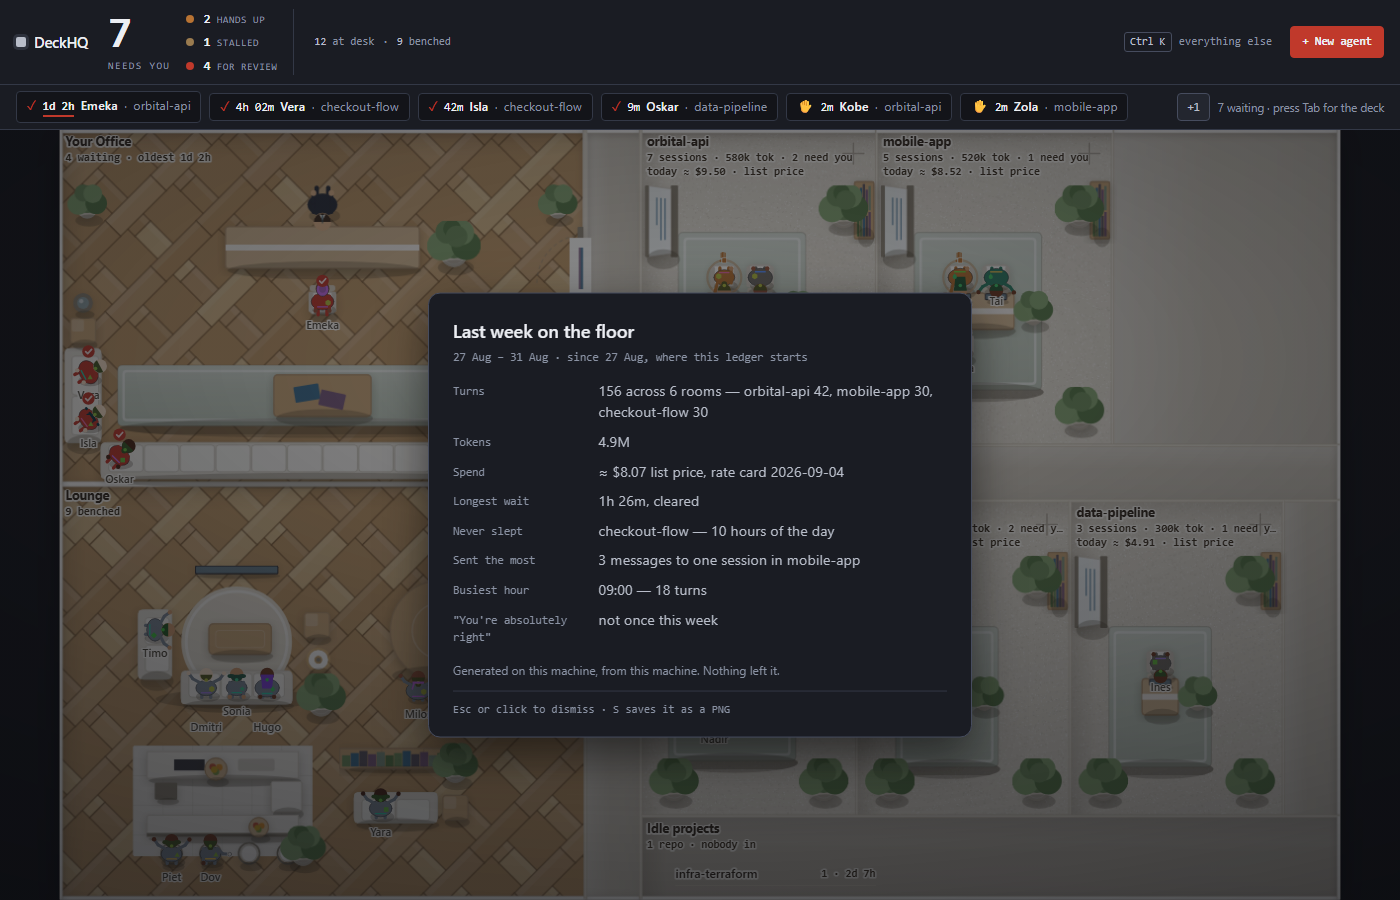
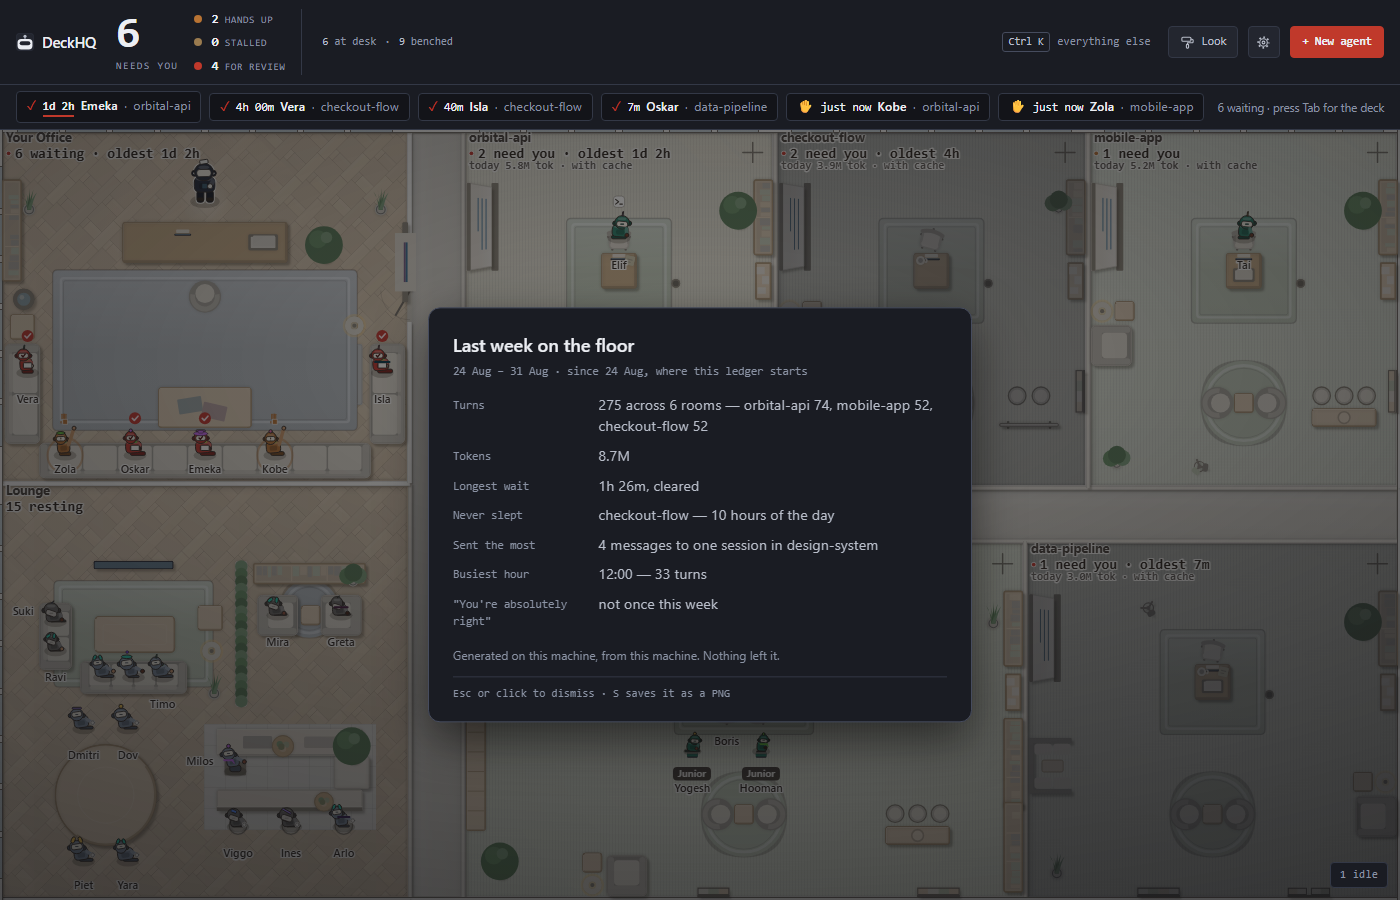
docs(guide): six of its seven pictures are the floor as it is, and the release attaches current ones
The guide showed seven captures from September, each labelled as taken before the figure took its current form. Four now point at captures site/assets.json declares and scripts/site-assets.mjs took on 11 October: media/site/hero.png, panel.png, theme-night-shift.png and theme-blueprint.png. Two are retaken in place by scripts/capture-floor.mjs on the demo floor: wrapped-weekly.png (demo-floor.mjs --ledger-fixture, palette, Wrapped) and pack-picker.png (demo-floor.mjs --pack, L), which is the Look panel now that the theme picker lives there. app-window.png is a photograph of a real Windows desktop window, which no script here can take; it stays, and its caption says what in it is current and what is not.

docs/media/floor.png, panel-review-card.png and hero.gif are attached to every GitHub release by publish.yml and showed the floor of early September. Retaken in place, same names: capture-floor.mjs for the two stills, capture-hero.mjs and gif-encoder.mjs for the animation (90 frames, 10 a second, 782 KB).

diff --git a/docs/GUIDE.md b/docs/GUIDE.md
@@ -30,9 +30,9 @@ in the whole team at a glance, walk over to anyone and read what they are doing,
 the next task, send them to the lounge when there is nothing for them, let them go when the work
 is done.
 
-![The DeckHQ floor: project rooms with agents at desks, a lounge of benched agents, and four sessions waiting in Your Office for review](media/floor.png)
+![The DeckHQ window on its demo floor. The header reads 2 needs you, with one hand up and one for review. Kobe and Ravi wait on a sofa in Your Office; three project rooms stand beside it, one of them with its lights off; five robots rest in the Lounge](media/site/hero.png)
 
-_Capture — September 2026, before the figure took its current form._
+_Capture: the running product on its demo floor, 11 October 2026. The projects are invented._
 
 **Read it in one glance.** The header counts what needs you. Your Office, top left, holds the
 sessions that are waiting on you — finished and waiting on your reply, or **hand up** and blocked
@@ -197,9 +197,9 @@ repository a working-tree diff cannot be attributed to any one of them, and the 
 imply otherwise. A clean repository says _nothing uncommitted_ rather than showing you an empty
 space, because "no changes" is itself review-relevant.
 
-![The review card on the oldest session in the queue: what the agent said rendered as markdown, what changed in the project's working tree at +142 −18 across three files, the 1 Reply, 2 Approve and 3 Bench actions, and the cost estimate as one quiet line](media/panel-review-card.png)
+![The review card on the oldest session in the queue, Emeka in orbital-api, waiting 1d 2h: what the agent said rendered as markdown, what changed in the project's working tree at +142 −18 across three files, the 1 Reply, 2 Approve and 3 Bench actions, and the session's tokens as one quiet line](media/site/panel.png)
 
-_Capture — September 2026, before the figure took its current form._
+_Capture: the running product on its demo floor, 11 October 2026._
 
 The furniture works too. A room's shelf opens that project's folder; its screen runs that
 project's dashboard script. The object is the verb, and it lives in the room the project lives in,
@@ -266,7 +266,9 @@ script. `deckhq app --pin` asks again whenever you want it; `--no-pin` never ask
 
 ![The DeckHQ floor in a Chrome application window on Windows 11: its own title bar reading "(7) DeckHQ" with the DeckHQ mark, no tab strip and no address bar, the queue strip along the top and the office below it](media/app-window.png)
 
-_Capture — September 2026, before the figure took its current form._
+_Capture of a real window, September 2026. The title bar and the missing tab strip are what you get
+today; the floor inside it has been redrawn since. A desktop window is the one picture here no
+script can retake, so it waits for somebody at a Windows desktop._
 
 `deckhq app` reuses the DeckHQ you already have running for this state directory — the one a
 running daemon published in `~/.deckhq/daemon.json`, the one your installed hooks post to, then
@@ -1114,9 +1116,9 @@ back on its own. Monday morning it is Wrapped instead — the week's turns per r
 whether the longest wait fell, the room that never slept, the busiest hour, and how many times an
 agent said _"You're absolutely right"_ — and from 1 December, the year so far.
 
-![Wrapped for the week, over the dimmed floor: turns per room, tokens, spend with its rate card, the longest wait, the room that never slept, the session sent the most, the busiest hour, and the count of one phrase](media/wrapped-weekly.png)
+![Wrapped for the week, over the dimmed floor: 275 turns across 6 rooms, tokens, the longest wait, the room that never slept, the session sent the most, the busiest hour, and the count of one phrase. Show cost is off, so there is no spend row](media/wrapped-weekly.png)
 
-_Capture — September 2026, before the figure took its current form._
+_Capture: the running product on its demo floor with nine days of invented ledger, 11 October 2026._
 
 Every number is a replay of the event ledger on this machine. Nothing is emailed, uploaded or
 counted anywhere else.
@@ -1247,13 +1249,13 @@ floor preferences — and `deckhq layout import my-floor.json` applies it. It ca
 transcript and no acknowledgement, and a malformed file is refused whole with the reason, never
 half-applied. It does name your project folders, so read one before you send it anywhere.
 
-![The floor in the night shift theme: the same office, cooler and dimmer, with the state colours unchanged](media/theme-night-shift.png)
+![The floor in the night shift theme: the same office, cooler and dimmer, with the state colours unchanged](media/site/theme-night-shift.png)
 
-_Capture — September 2026, before the figure took its current form._
+_Capture: the running product on its demo floor, 11 October 2026._
 
-![The floor in the blueprint theme: drafting-table blue with white line work, and the state colours unchanged](media/theme-blueprint.png)
+![The floor in the blueprint theme: drafting-table blue with white line work, and the state colours unchanged](media/site/theme-blueprint.png)
 
-_Capture — September 2026, before the figure took its current form._
+_Capture: the running product on its demo floor, 11 October 2026._
 
 **Supporter pack: more themes and avatars; everything that captures, queues or acts is free.** A
 pack is a single signed file — `deckhq pack install <file>` copies it into `~/.deckhq/packs/` and a
@@ -1270,9 +1272,9 @@ that locally. `deckhq pack verify <file>` shows you what is in one before you in
 `deckhq pack remove <name>` puts the floor back. `packs/supporter-sample/` in this repository is a
 real one, source and all.
 
-![The settings sheet's theme picker with a Supporter pack installed: the shipped themes and the pack's warehouse and garden beside them](media/pack-picker.png)
+![The Look panel with the sample Supporter pack installed. Under Theme, the shipped Default, Night shift and Blueprint, and the pack's Warehouse and Garden beside them](media/pack-picker.png)
 
-_Capture — September 2026, before the figure took its current form._
+_Capture: the running product on its demo floor with `packs/supporter-sample` installed, 11 October 2026._
 
 ## Options
 
